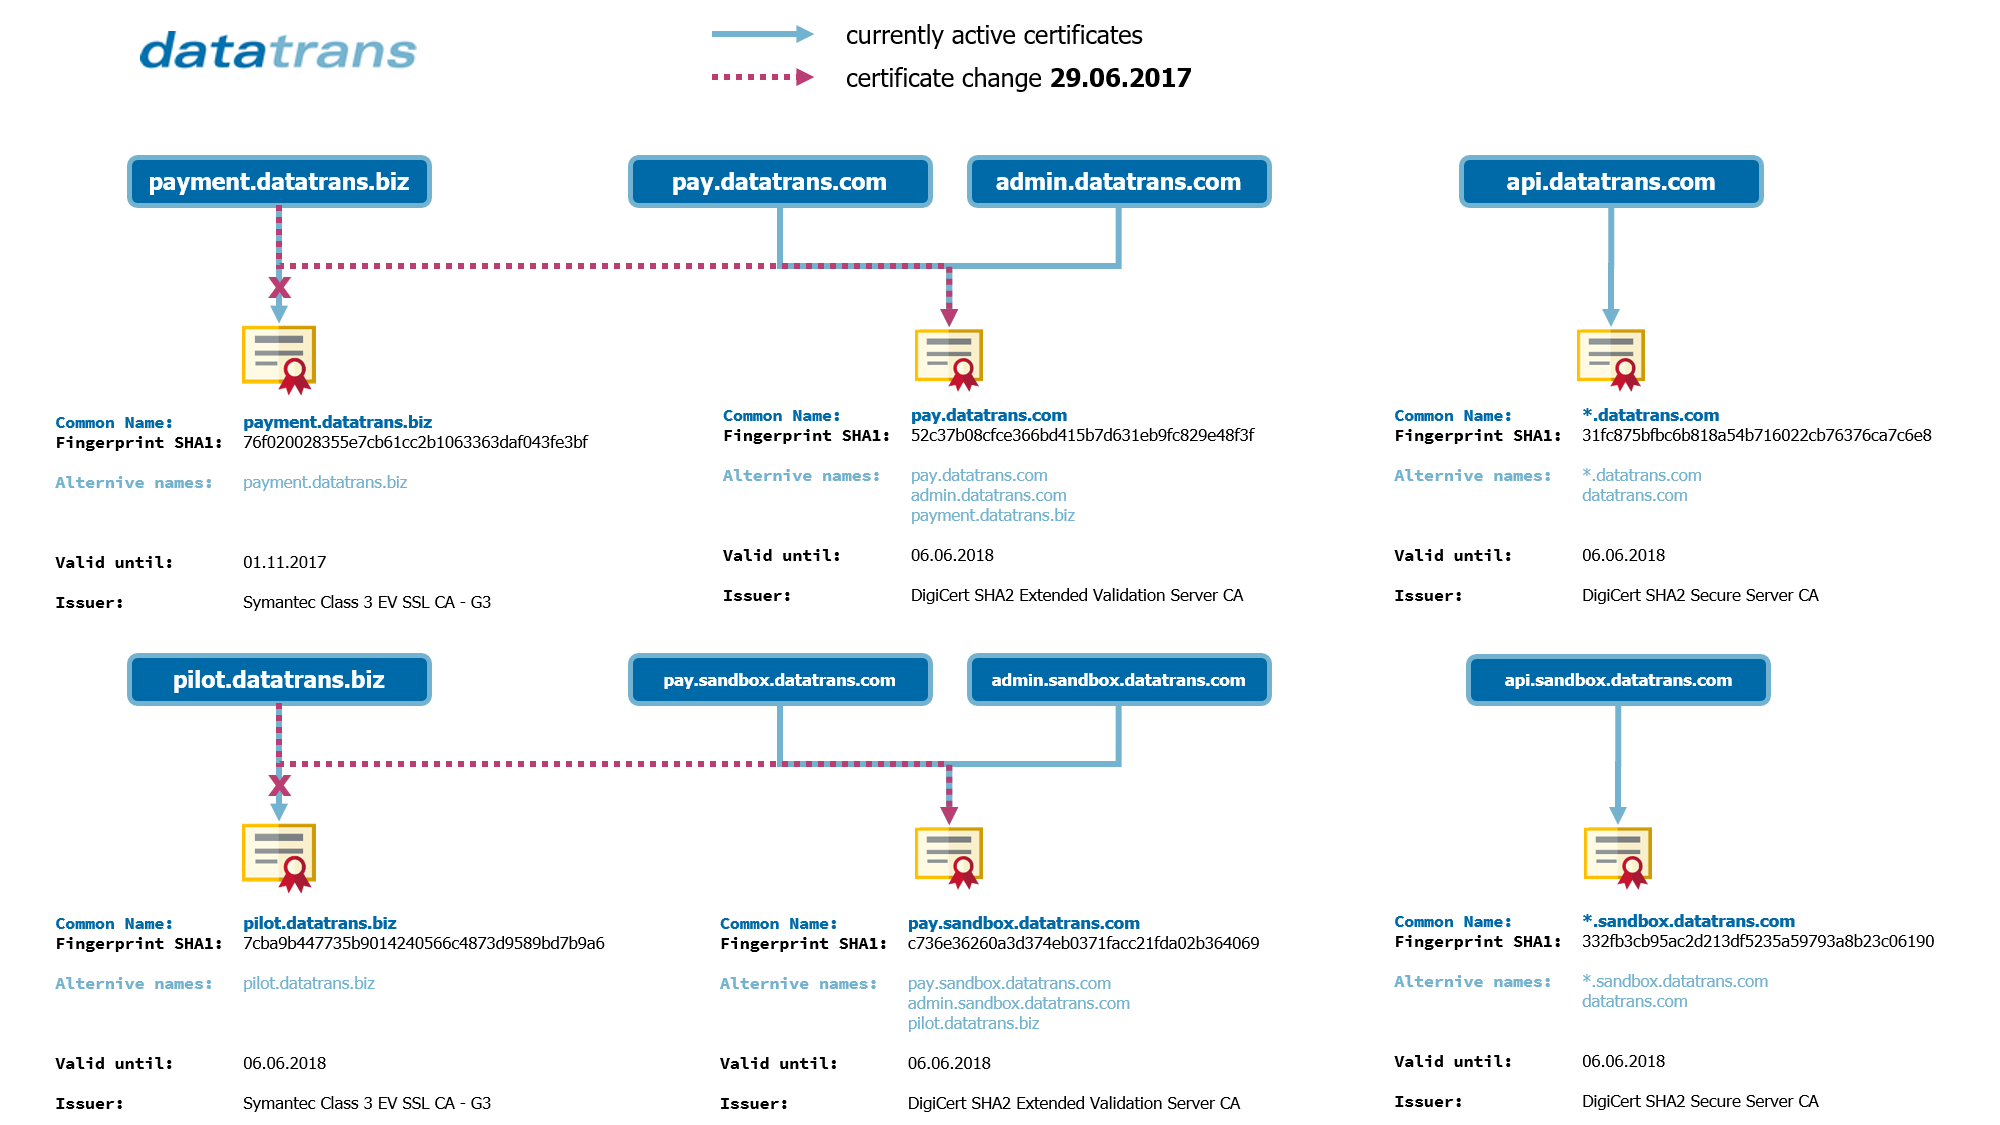
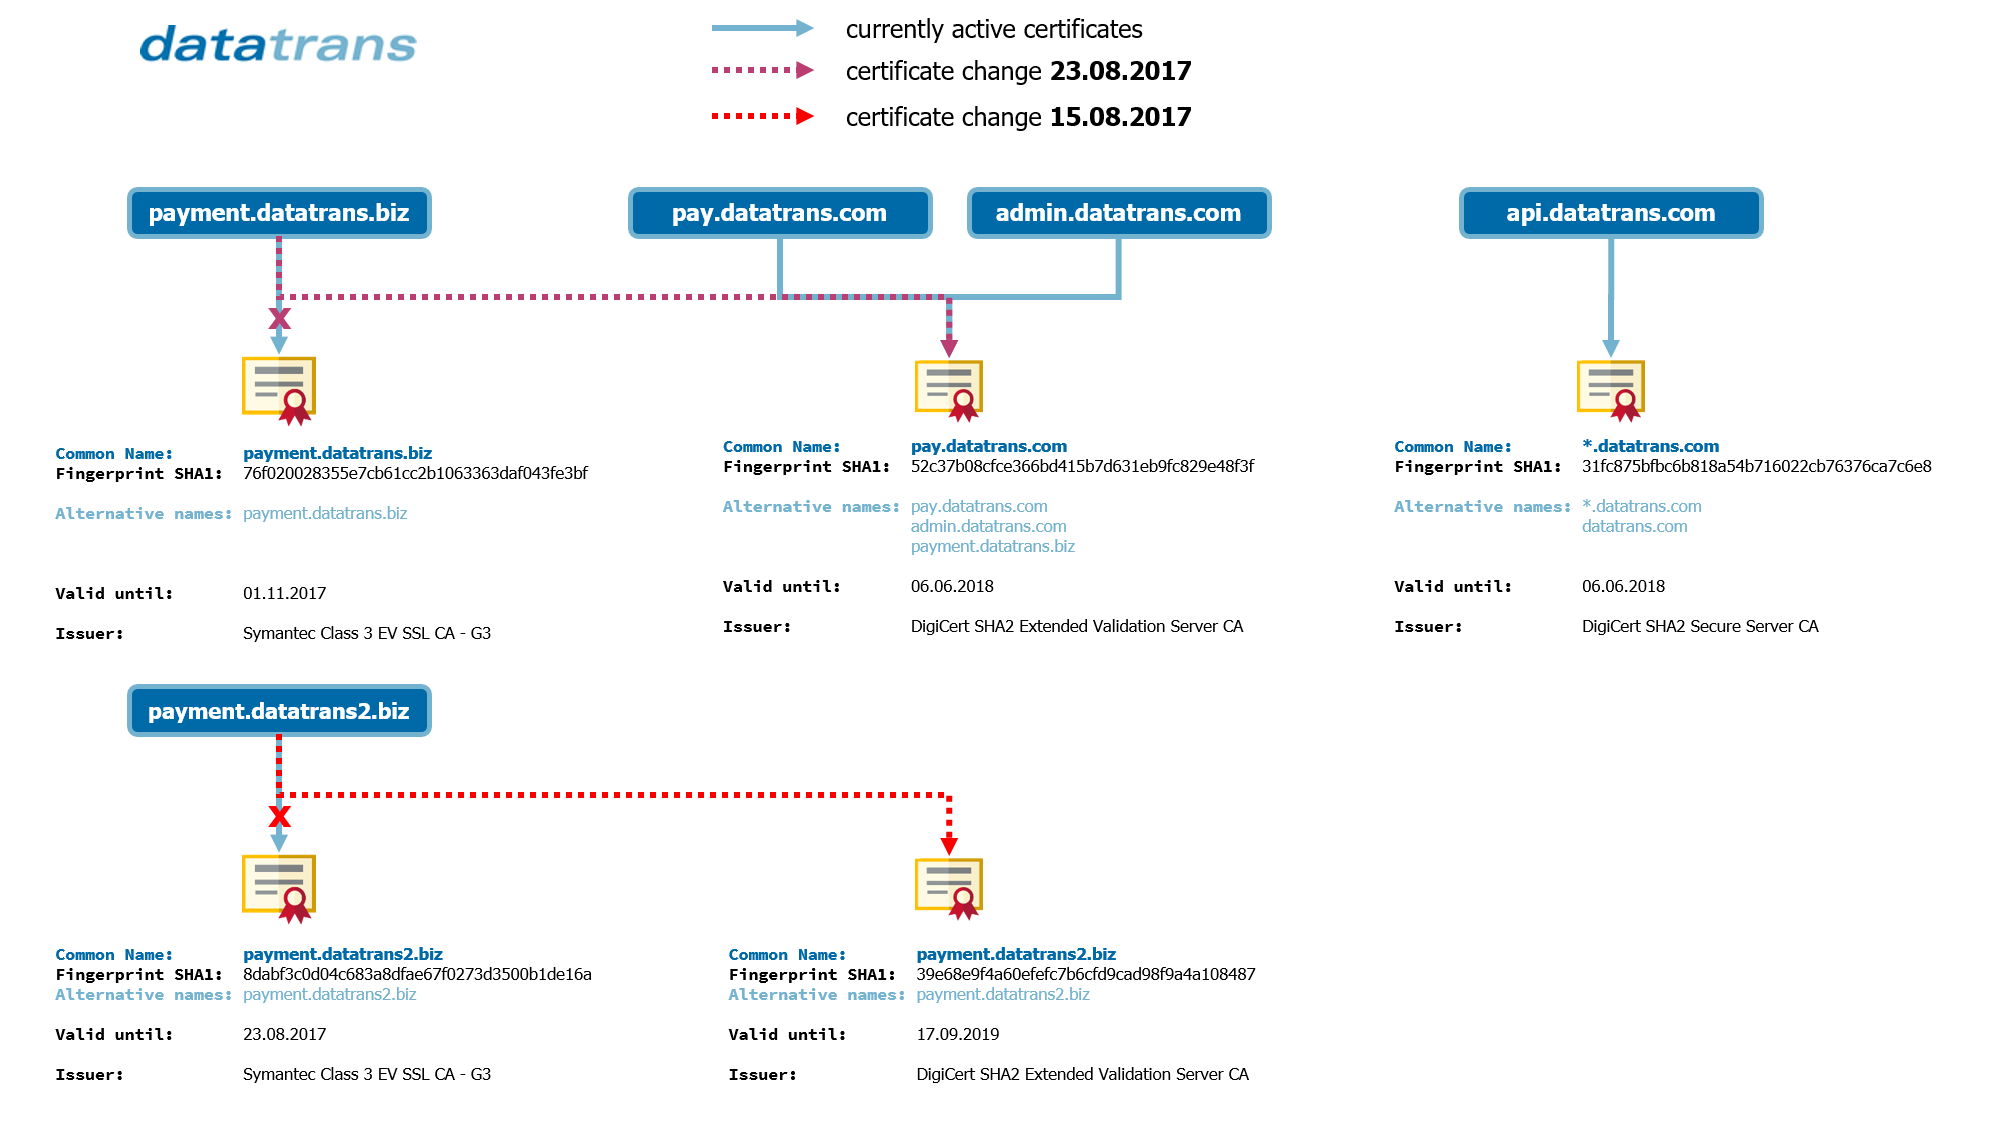
Updates assets/OverviewCertificatesDatatransSmall.png
Auto commit by GitBook Editor

diff --git a/overview.md b/overview.md
@@ -1,1 +1,9 @@
-Due to possible restriction for Symantec-issued certificates in Google Chrome, the renewal of our certificates for payment.datatrans.biz and pilot.datatrans.biz has been brought forward. (new date pending, will be posted here until July 14th)
+Due to possible restriction for Symantec-issued certificates in Google Chrome, the renewal of our certificates for payment.datatrans.biz and pilot.datatrans.biz has been brought forward. 
+
+Date | Endpoint | Environment | Status
+--- | --- | --- | ---
+**29.06.2017** | pilot.datatrans.biz | Test | Active
+**15.08.2017** | payment.datatrans**2**.biz | Backup | Scheduled
+**23.08.2017** | payment.datatrans.biz | Production | Scheduled
+<br/>
+![](/assets/OverviewCertificatesDatatransSmall.png)
